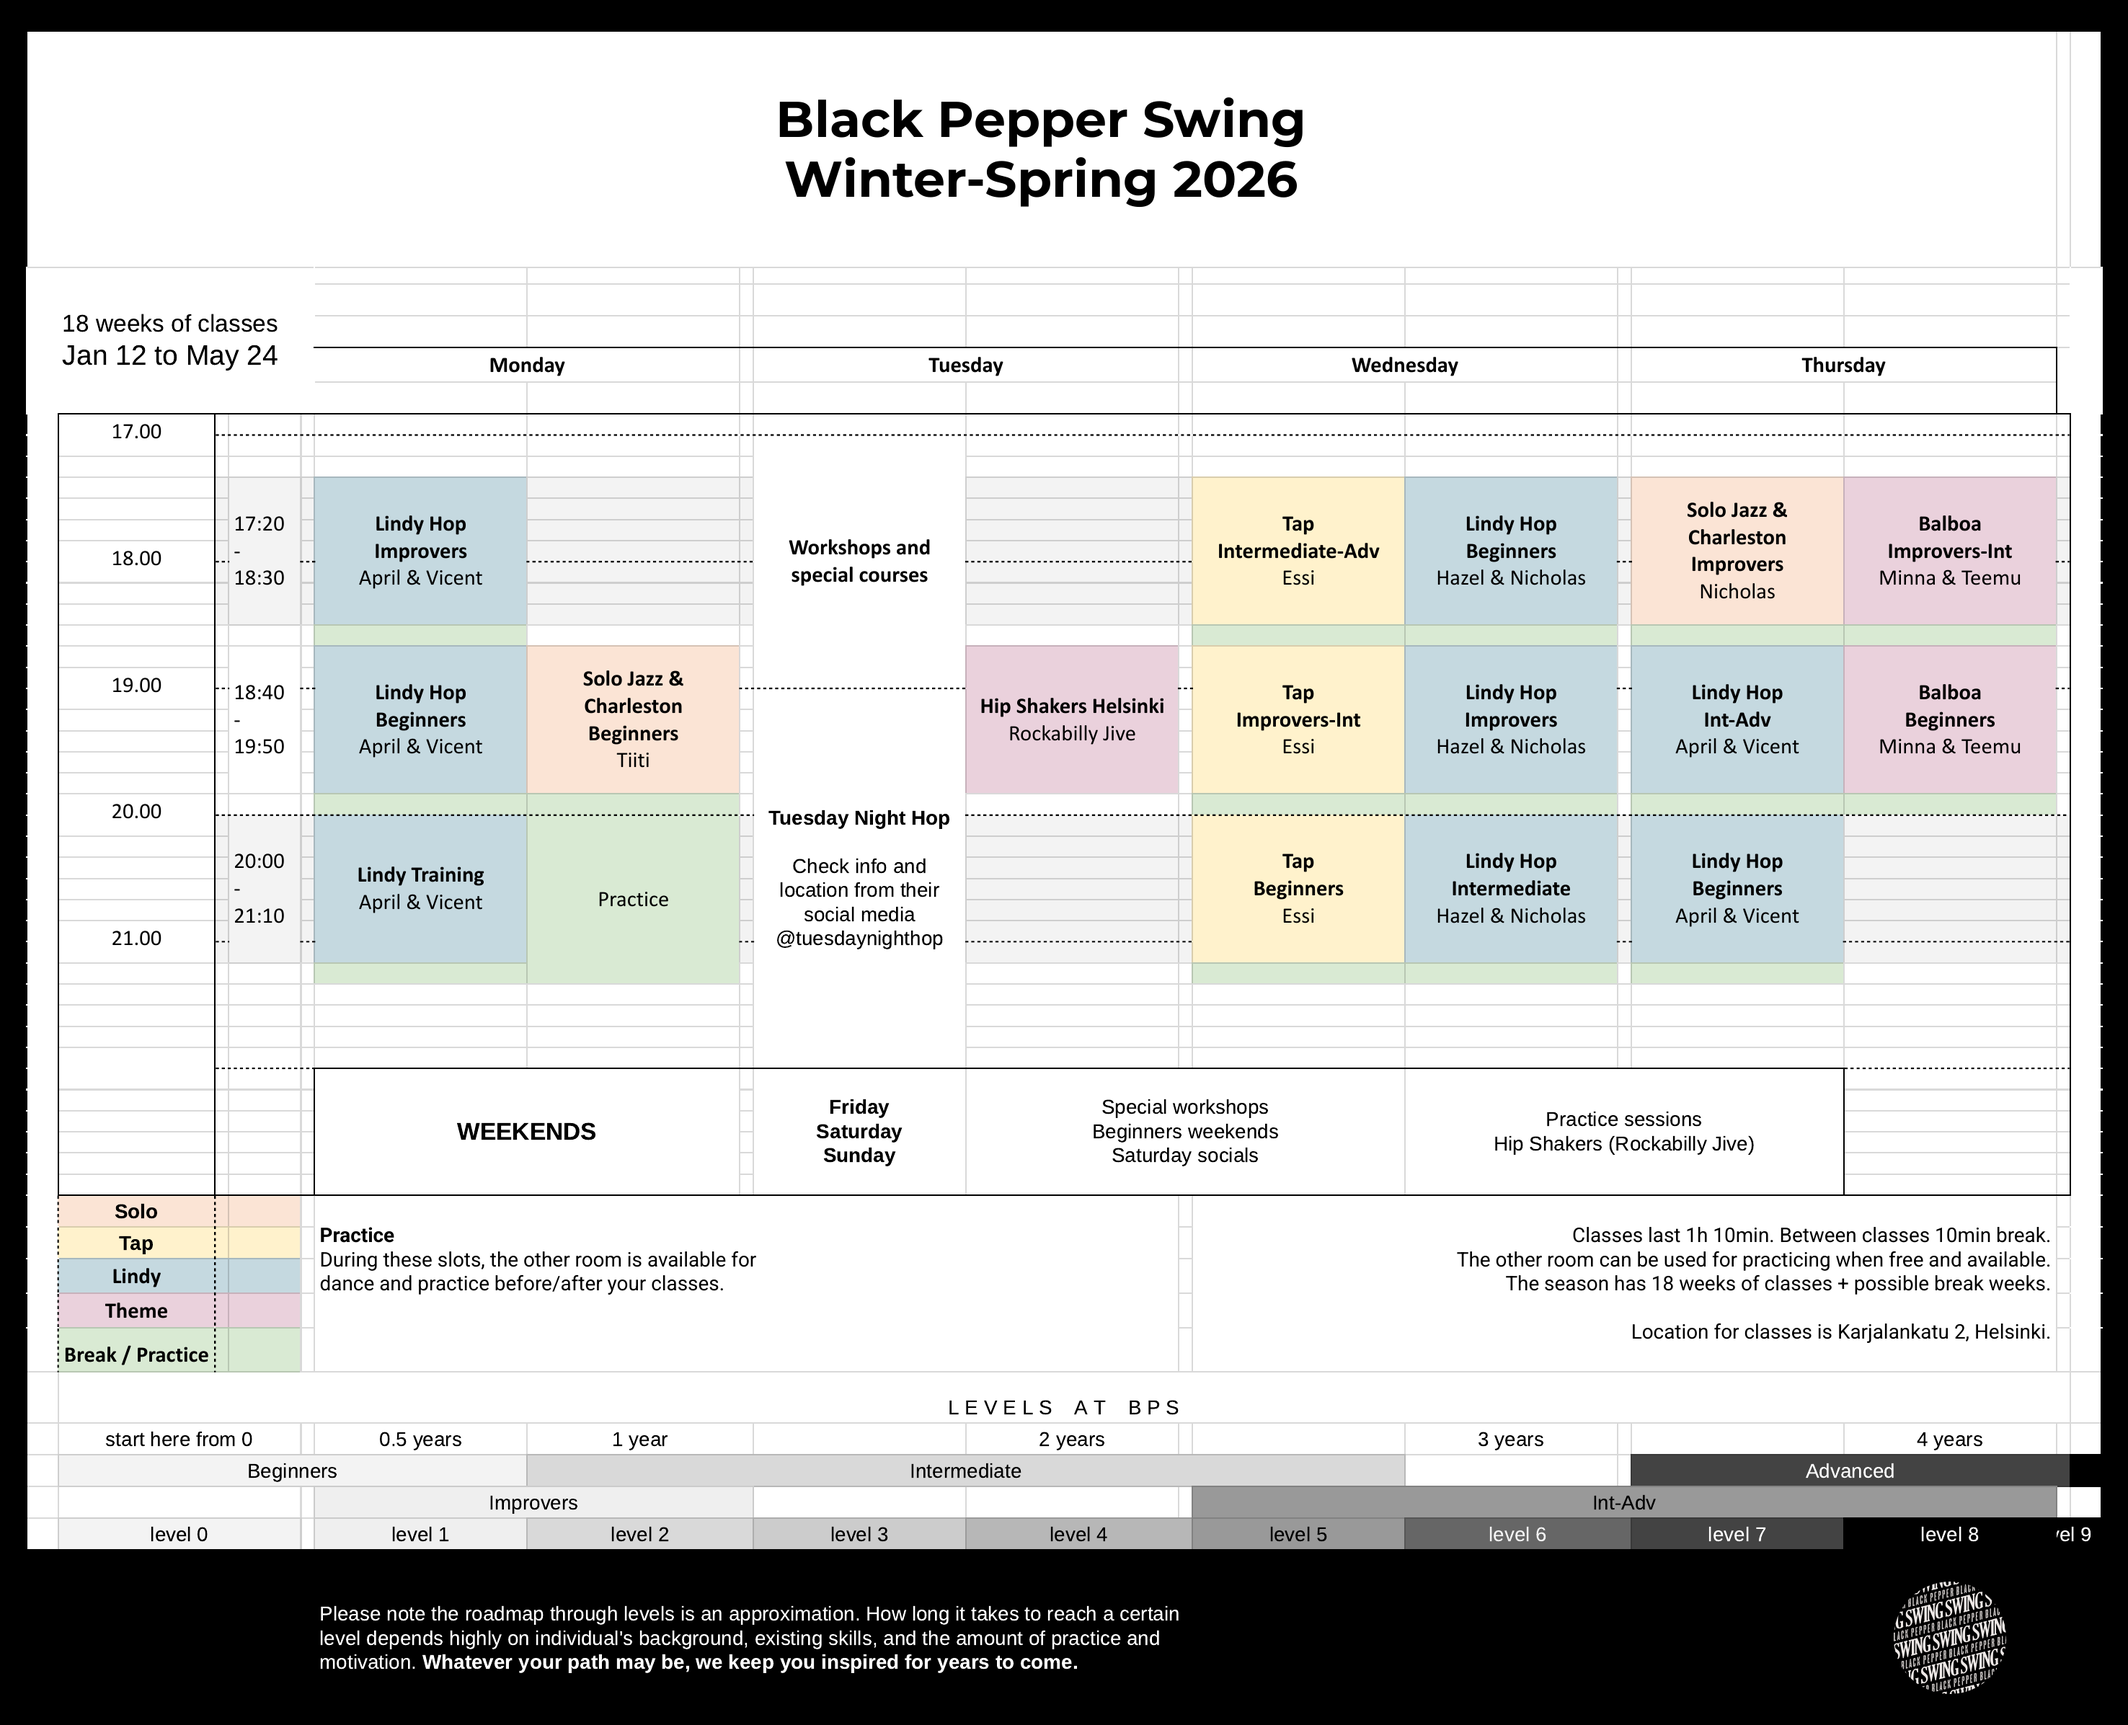
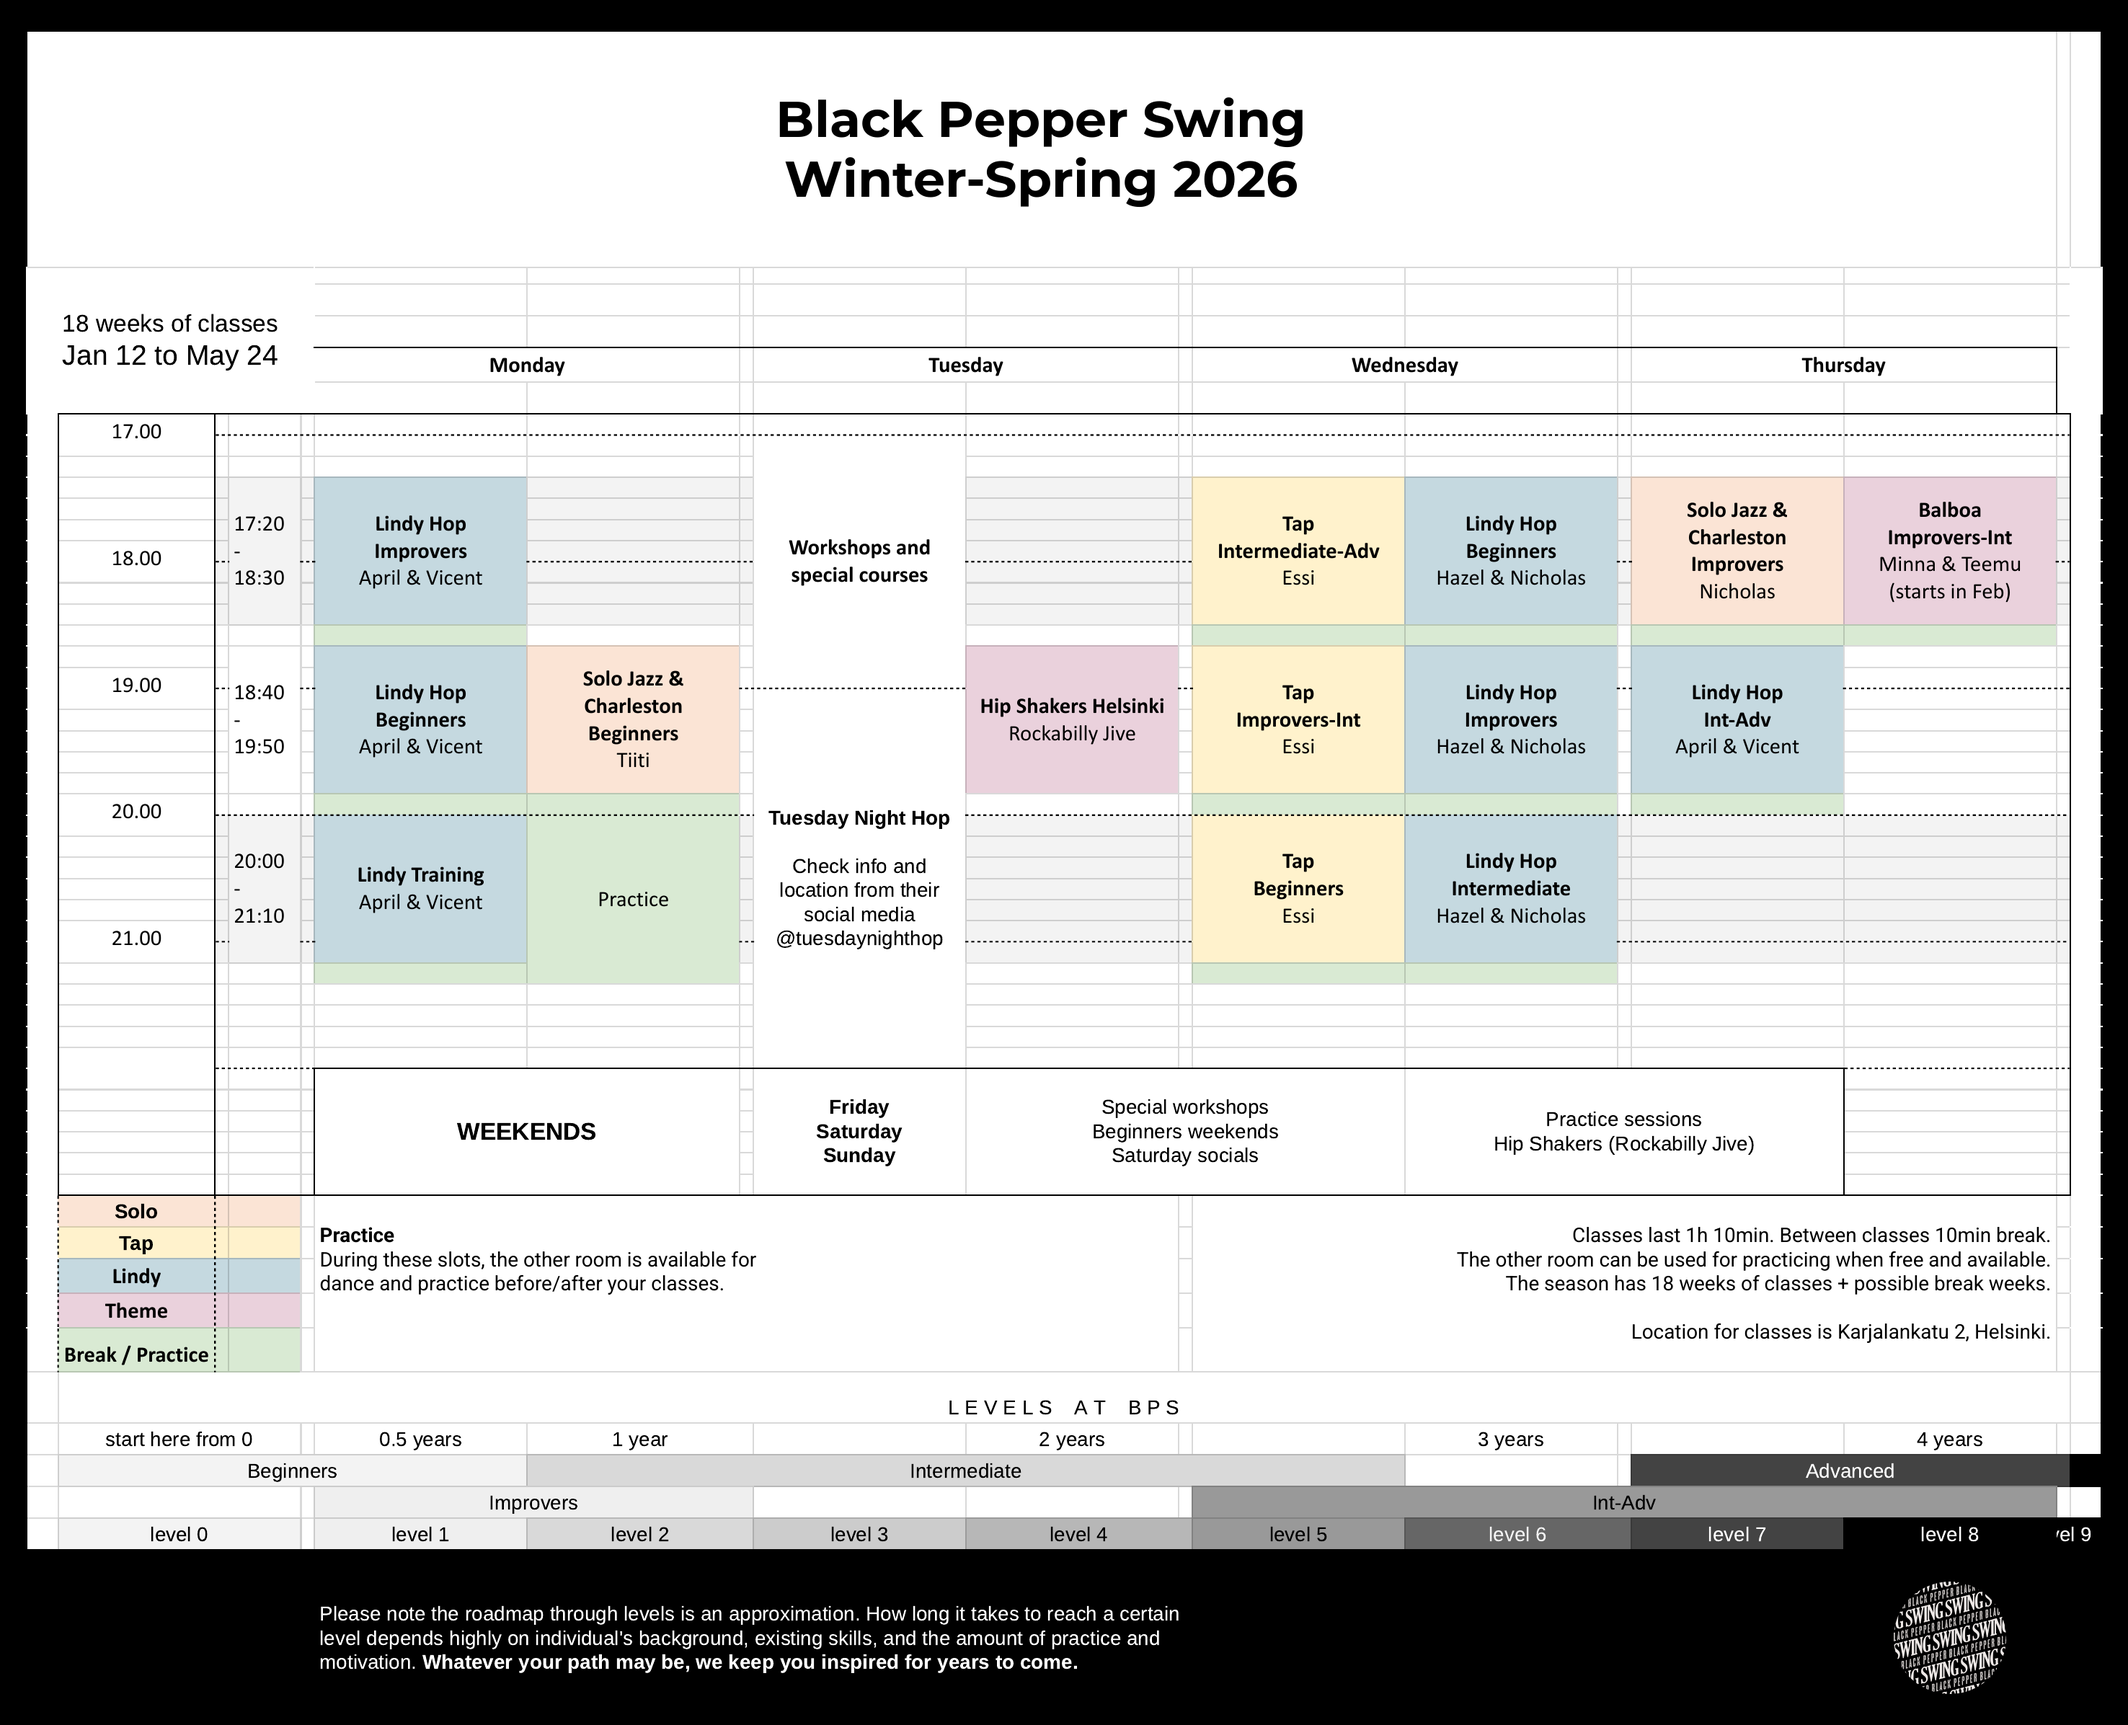
Updates

Changed region(s): [[0.748, 0.3711, 0.9661, 0.5875], [0.8726, 0.2783, 0.9661, 0.3402]]

diff --git a/pages/events.md b/pages/events.md
@@ -15,13 +15,90 @@ permalink: "/events/"
 
 ## Special events, workshops and festivals
 
+{% comment %}
 {% assign events = site.events | where_exp: 'item', 'item.archived != true' | where: 'repeats', 'monthly' | sort: 'title' | sort: 'date' | sort: 'date_start' %}
 {% include grid.html cols=1 collection=events template='post-snippet.html' %}
 
 {% assign events = site.events | where_exp: 'item', 'item.archived != true' | where: 'repeats', 'false' | sort: 'title' | sort: 'date' | sort: 'date_start' %}
 {% include grid.html cols=1 collection=events template='post-snippet.html' %}
+{% endcomment %}
+
+**January**
+
+**Sat Jan 10th** / Open Day and try out classes  
+Bring your friends and try out new dance styles  
+16:00 - 19:00
+
+**Sat Jan 10th** / Welcome back party  
+Let's start the season with a party!  
+19:00 - 23:00
+
+**February**
+
+**Sun Feb 1st** / Jazz & tea  
+Culture and music talks + social dance  
+16:00 - 20:00
+
+**Sat Feb 7th** / Lindy Hop Beginners' Weekend  
+Learn to dance in a weekend
+
+**Sat Feb 7th** / Saturday party  
+Taster class & DJ music  
+19:00 - 23:30
+
+**Sat Feb 21st** / Saturday party  
+Taster class & DJ music  
+19:00 - 23:30
+
+**March**
+
+**Sat Mar 3rd** / Saturday party  
+Taster class & DJ music  
+19:00 - 23:30
+
+**Sat Mar 28th** / Saturday party  
+Taster class & DJ music  
+19:00 - 23:30
+
+**April**
+
+**Sat April 11th** / Saturday party  
+Taster class & DJ music  
+19:00 - 23:30
+
+**Sun April 19th** / Jazz & tea  
+Culture and music talks + social dance  
+16:00 - 20:00
+
+**May**
+
+**Sat May 2nd** / Saturday party  
+Taster class & DJ music  
+19:00 - 23:30
+
+**Sat May 16th** / Saturday party  
+Taster class & DJ music  
+19:00 - 23:30
+
+**Sun May 31st** / End of season party  
+Shows and summer celebration  
+16:00 - 22:30
+
+### Upcoming and ongoing courses
+
+Check out our courses here:  
+[https://blackpepperswing.com/courses](https://blackpepperswing.com/courses)
+
+## Events in Helsinki
+
+<p>All swing and blues dance events in Helsinki.</p>
+<p>A public calendar shared with dance schools and event organisers.</p>
+<p><a href="/swinginhelsinki">www.swinginhelsinki.fi</a></p>
+
+<iframe src="https://calendar.google.com/calendar/embed?height=600&wkst=2&ctz=Europe%2FHelsinki&mode=AGENDA&src=bDliYTdnYjVsZDA5cDJybG4zNWh0MzM5aGNAZ3JvdXAuY2FsZW5kYXIuZ29vZ2xlLmNvbQ&color=%237986cb" style="border:solid 1px #777" width="800" height="600" frameborder="0" scrolling="no"></iframe>
 
 
+{% comment %}
 ### Weekly events
 
 {% assign events = site.events | where_exp: 'item', 'item.archived != true' | where: 'repeats', 'weekly' | sort: 'title' | sort: 'order' %}
@@ -55,11 +132,5 @@ permalink: "/events/"
 </div>
 
 <div class="t60 b60">&nbsp;</div>
+{% endcomment %}
 
-## Events in Helsinki
-
-<p>All swing and blues dance events in Helsinki.</p>
-<p>A public calendar shared with dance schools and event organisers.</p>
-<p><a href="/swinginhelsinki">www.swinginhelsinki.fi</a></p>
-
-<iframe src="https://calendar.google.com/calendar/embed?height=600&wkst=2&ctz=Europe%2FHelsinki&mode=AGENDA&src=bDliYTdnYjVsZDA5cDJybG4zNWh0MzM5aGNAZ3JvdXAuY2FsZW5kYXIuZ29vZ2xlLmNvbQ&color=%237986cb" style="border:solid 1px #777" width="800" height="600" frameborder="0" scrolling="no"></iframe>

diff --git a/pages/courses.md b/pages/courses.md
@@ -69,10 +69,40 @@ We offer classes in 4 tracks: Lindy Hop, Balboa, Solo Jazz & Charleston, and Tap
 
 Read the description of each track and levels down below.
 
+**Join during the season?**
+
+Yes, that's possible. You only pay for the remaining of the classes.
+
+Just register online, or contact us with any questions.
+
+**Prices**
+
+Full 18-week course - 359€  
+Sparced 10-class package - 220€  
+Try out 4 weeks - 88€  
+Single class - 23€
+
+-15% discount for unemployed, students, and low-income-households  
+-25% for the second course at the same time  
+
+**Missed classes and free re-take policy**
+
+Miissed a class? You can make it up by visiting any other group suitable for you freely. Just tell the teachers which group you are coming from. Prepare to lead/follow as needed, in case of many visitor. To stick to your preferred role, agree on the visit beforehand.
+
+Re-take beginners' class free of charge as many times as you want. We guarantee everyone learns to dance with, and our free re-take -policy backs it up. Free re-take -policy is applied to all weekly courses.
+
+
+
+Dance Pass 720€ for the season  
+Includes all the classes + extra benefits
+
 
 ### Tracks
 
 We currenlty have 4 main dance styles, tracks, to choose from. Each complimenting and enriching each other. Start with any of these and expand to master 2-3 while you progress. Level descriptions are listed after these tracks.
+
+Courses start January 12th.  
+Exception Balboa courses which start February 5th.
 
 <div class="article-media small-left">
   <h4></h4>

diff --git a/pages/fi/home/season-info.md b/pages/fi/home/season-info.md
@@ -99,12 +99,10 @@ Tunnit ovat lähtökohtaisesti englanniksi, ellei kaikki osallistujat (ja opetta
 
 <section class="row">
   <div class="medium-12 columns">
-    <h2 class="text-center">Syksyn kurssit</h2>
-    <div class="fade-bottom" style="max-height: 380px; overflow: hidden;">
-      {% include portal-events.html limit=2 category="season-2025-autumn" randomize=true %}
-    </div>
-    <p style="z-index:10; padding: 10px;" class="show-more text-center">
-      <a href="/courses">Näytä lisää...</a>
-    </p>
+    <h2 class="text-center">Talven ja kevään kurssit</h2>
+    <p>Kausi alkoi 12.1.</p>
+    <p>Voit liittyä mukaan missä vaiheessa vain kesken kautta. Maksat vain jäljellä olevista kerroista.</p>
+    <p>Ilmoittaudu mukaan netissä, tai ota meihin yhteyttä.</p>
+    <p><a href="/courses">Ilmoittaudu kursseille täällä...</a></p>
   </div>
 </section>

diff --git a/pages/home/season-info.md b/pages/home/season-info.md
@@ -102,12 +102,10 @@ All our classes are in English unless otherwise mentioned.
 
 <section class="row">
   <div class="medium-12 columns">
-    <h2 class="text-center">Autumn courses</h2>
-    <div class="fade-bottom" style="max-height: 380px; overflow: hidden;">
-      {% include portal-events.html limit=2 category="season-2025-autumn" randomize=true %}
-    </div>
-    <p style="z-index:10; padding: 10px;" class="show-more text-center">
-      <a href="/courses">Show more...</a>
-    </p>
+    <h2 class="text-center">Winter-Spring courses</h2>
+    <p>Season started Jan 12th.</p>
+    <p>You can join ongoing season at any point. Pay only for the remaining of the classes.</p>
+    <p>Register online, or contact us directly to get your spot.</p>
+    <p><a href="/courses">Register for courses here...</a></p>
   </div>
 </section>
